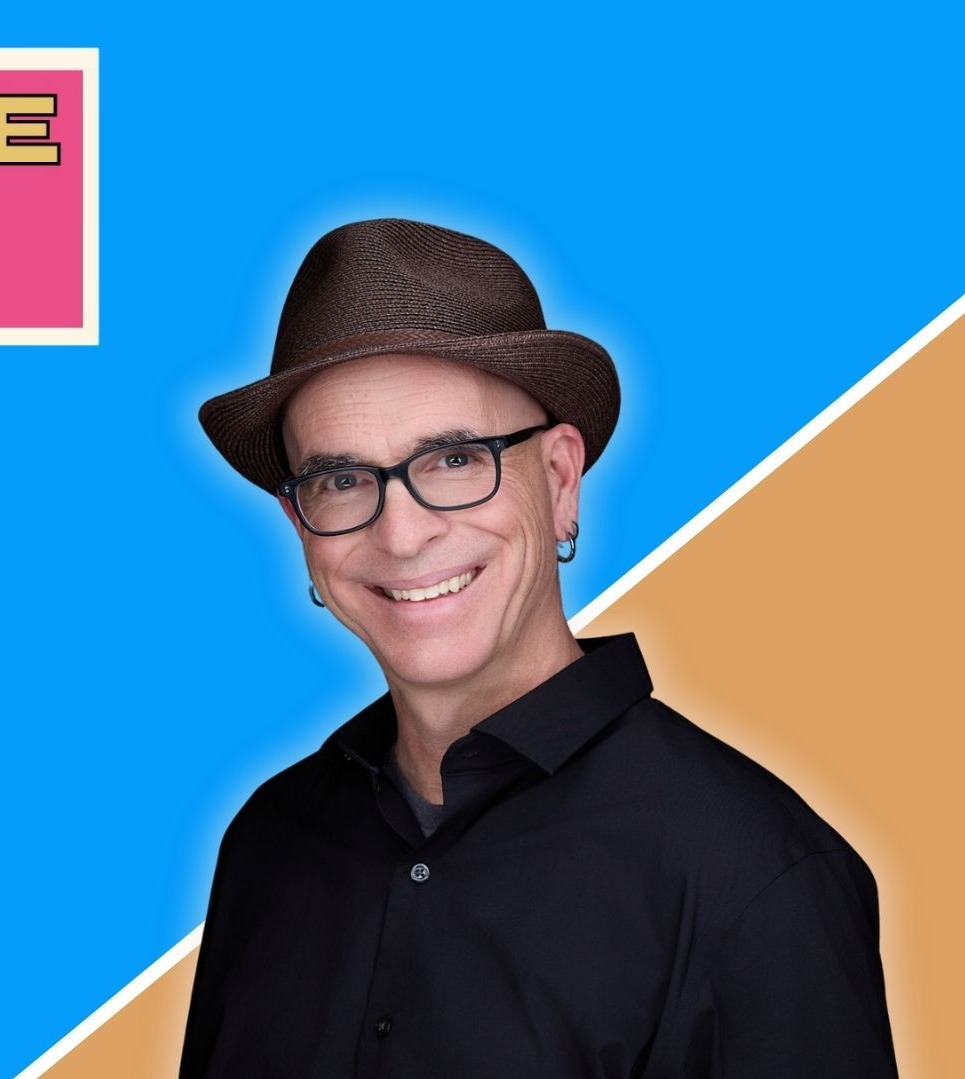
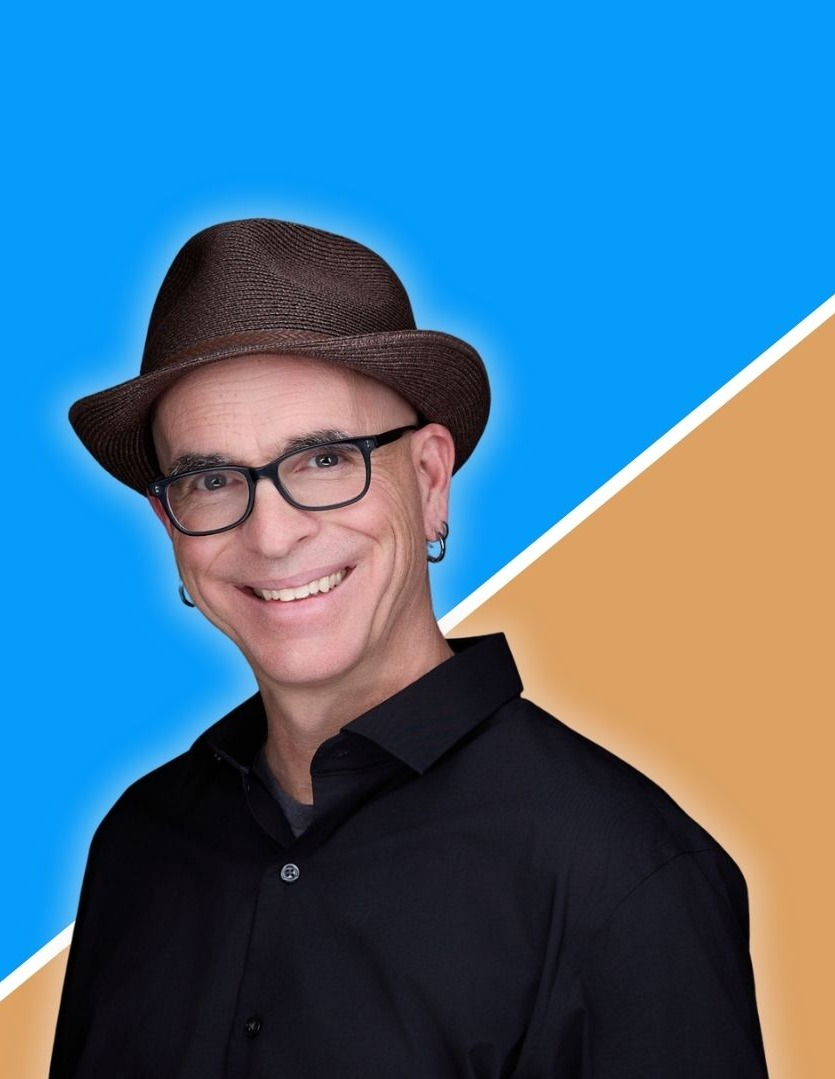
Add files via upload

diff --git a/index.html b/index.html
@@ -44,18 +44,6 @@
   </div>
 </section>
 
-<div class="featured-callout">
-  <a class="card" href="sasabe.html">
-    <img src="assets/photos/7.jpg" alt="Featured Listing: Sasabe, Arizona">
-    <div class="text">
-      <div class="label">Featured Listing</div>
-      <div class="title">Sasabe, Arizona &mdash; Own Your Own Town</div>
-      <div class="sub">A once-in-a-lifetime opportunity to acquire a historic Arizona border community.</div>
-      <div class="cta">View this listing &rarr;</div>
-    </div>
-  </a>
-</div>
-
 
 
 <footer class="site-footer">